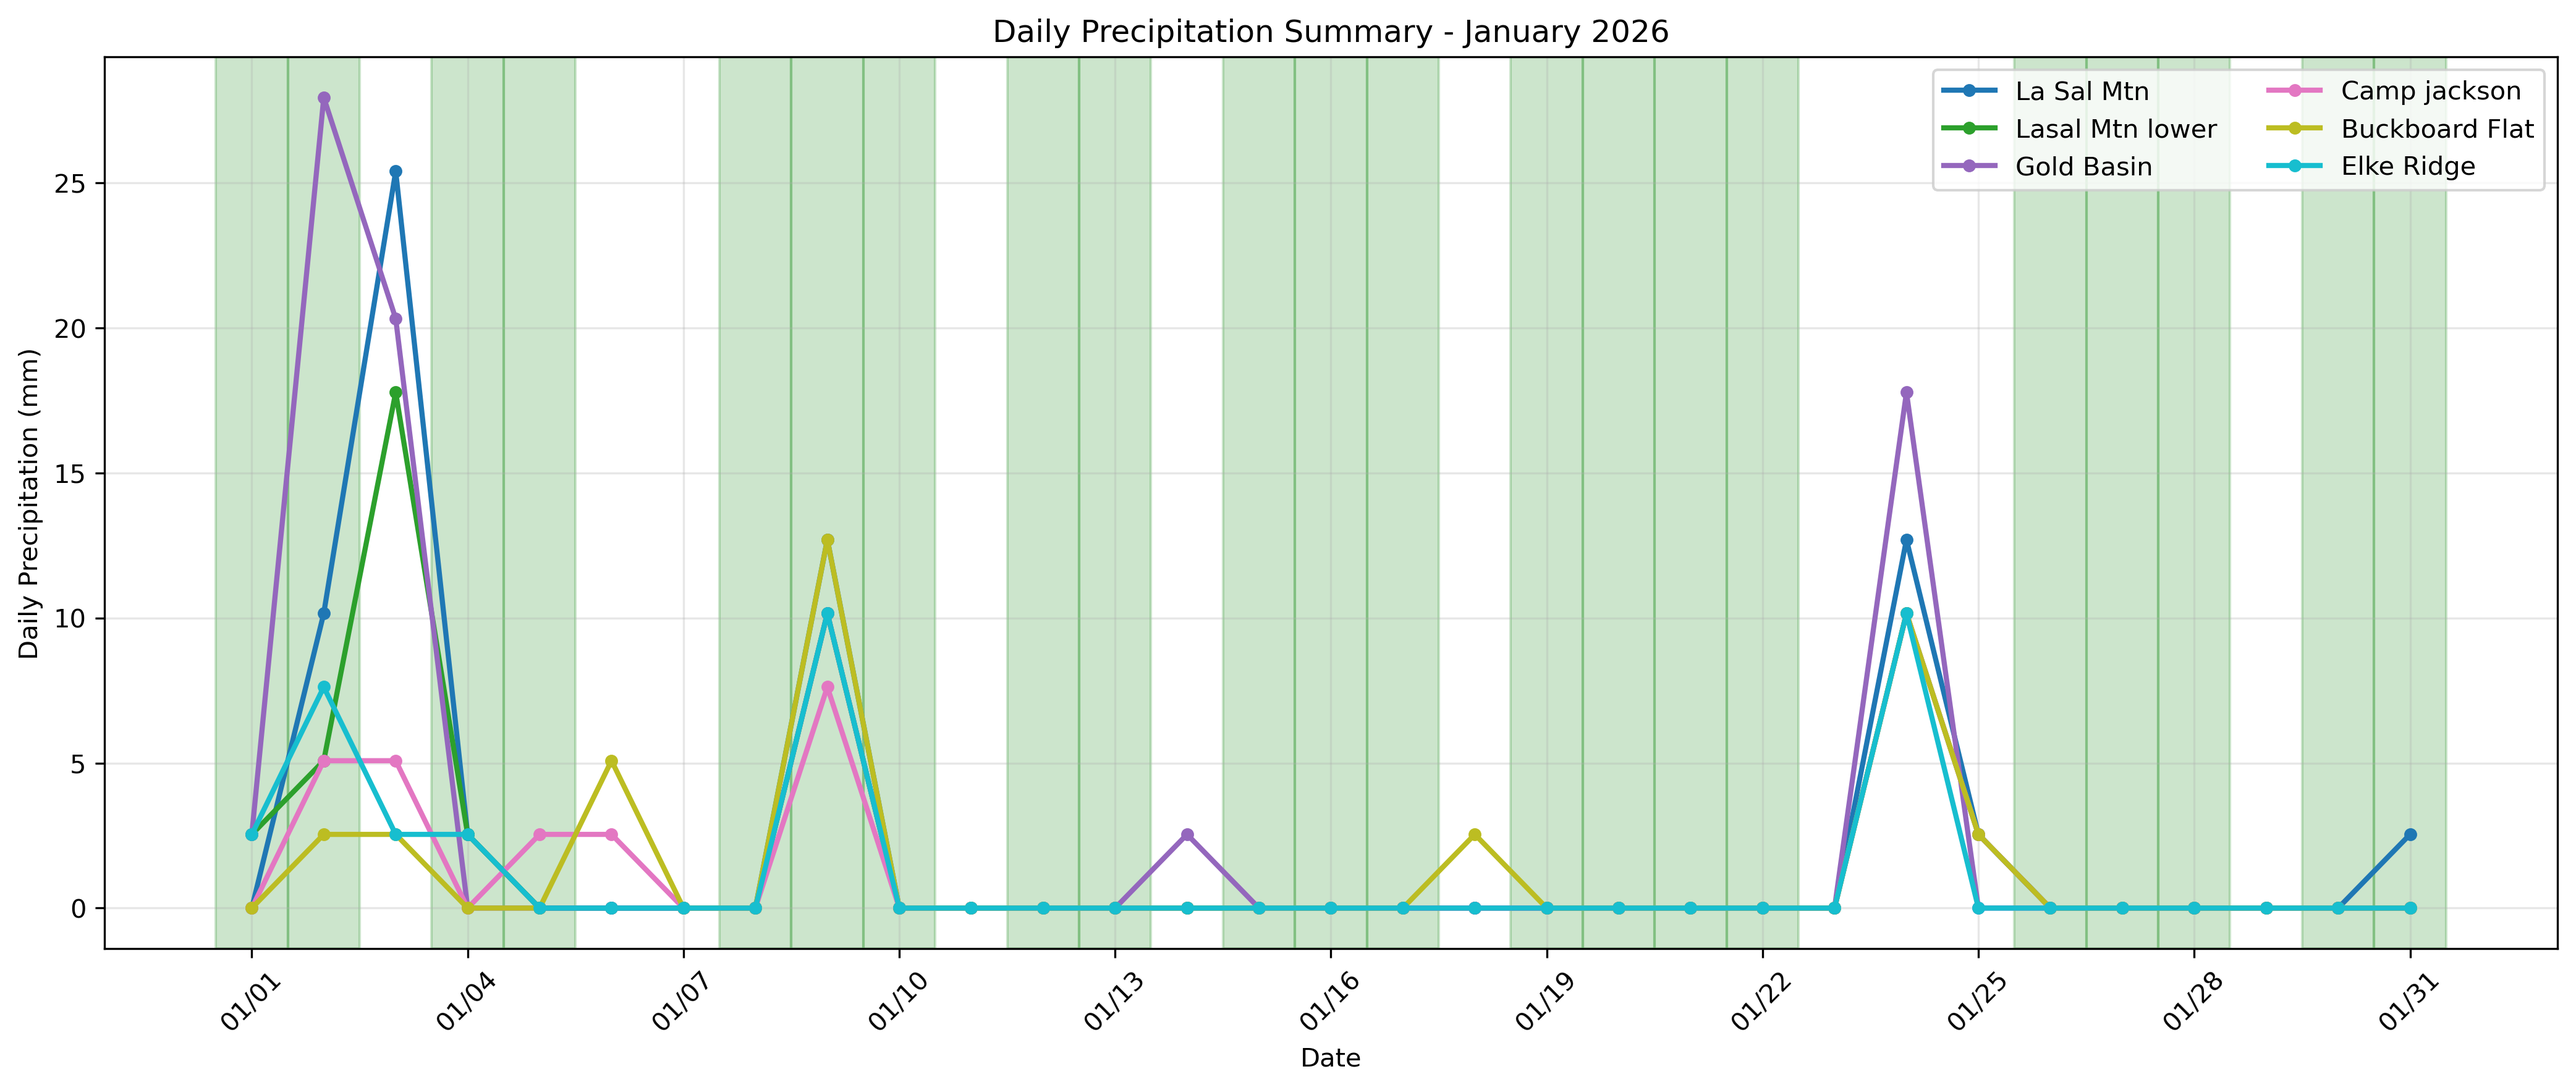
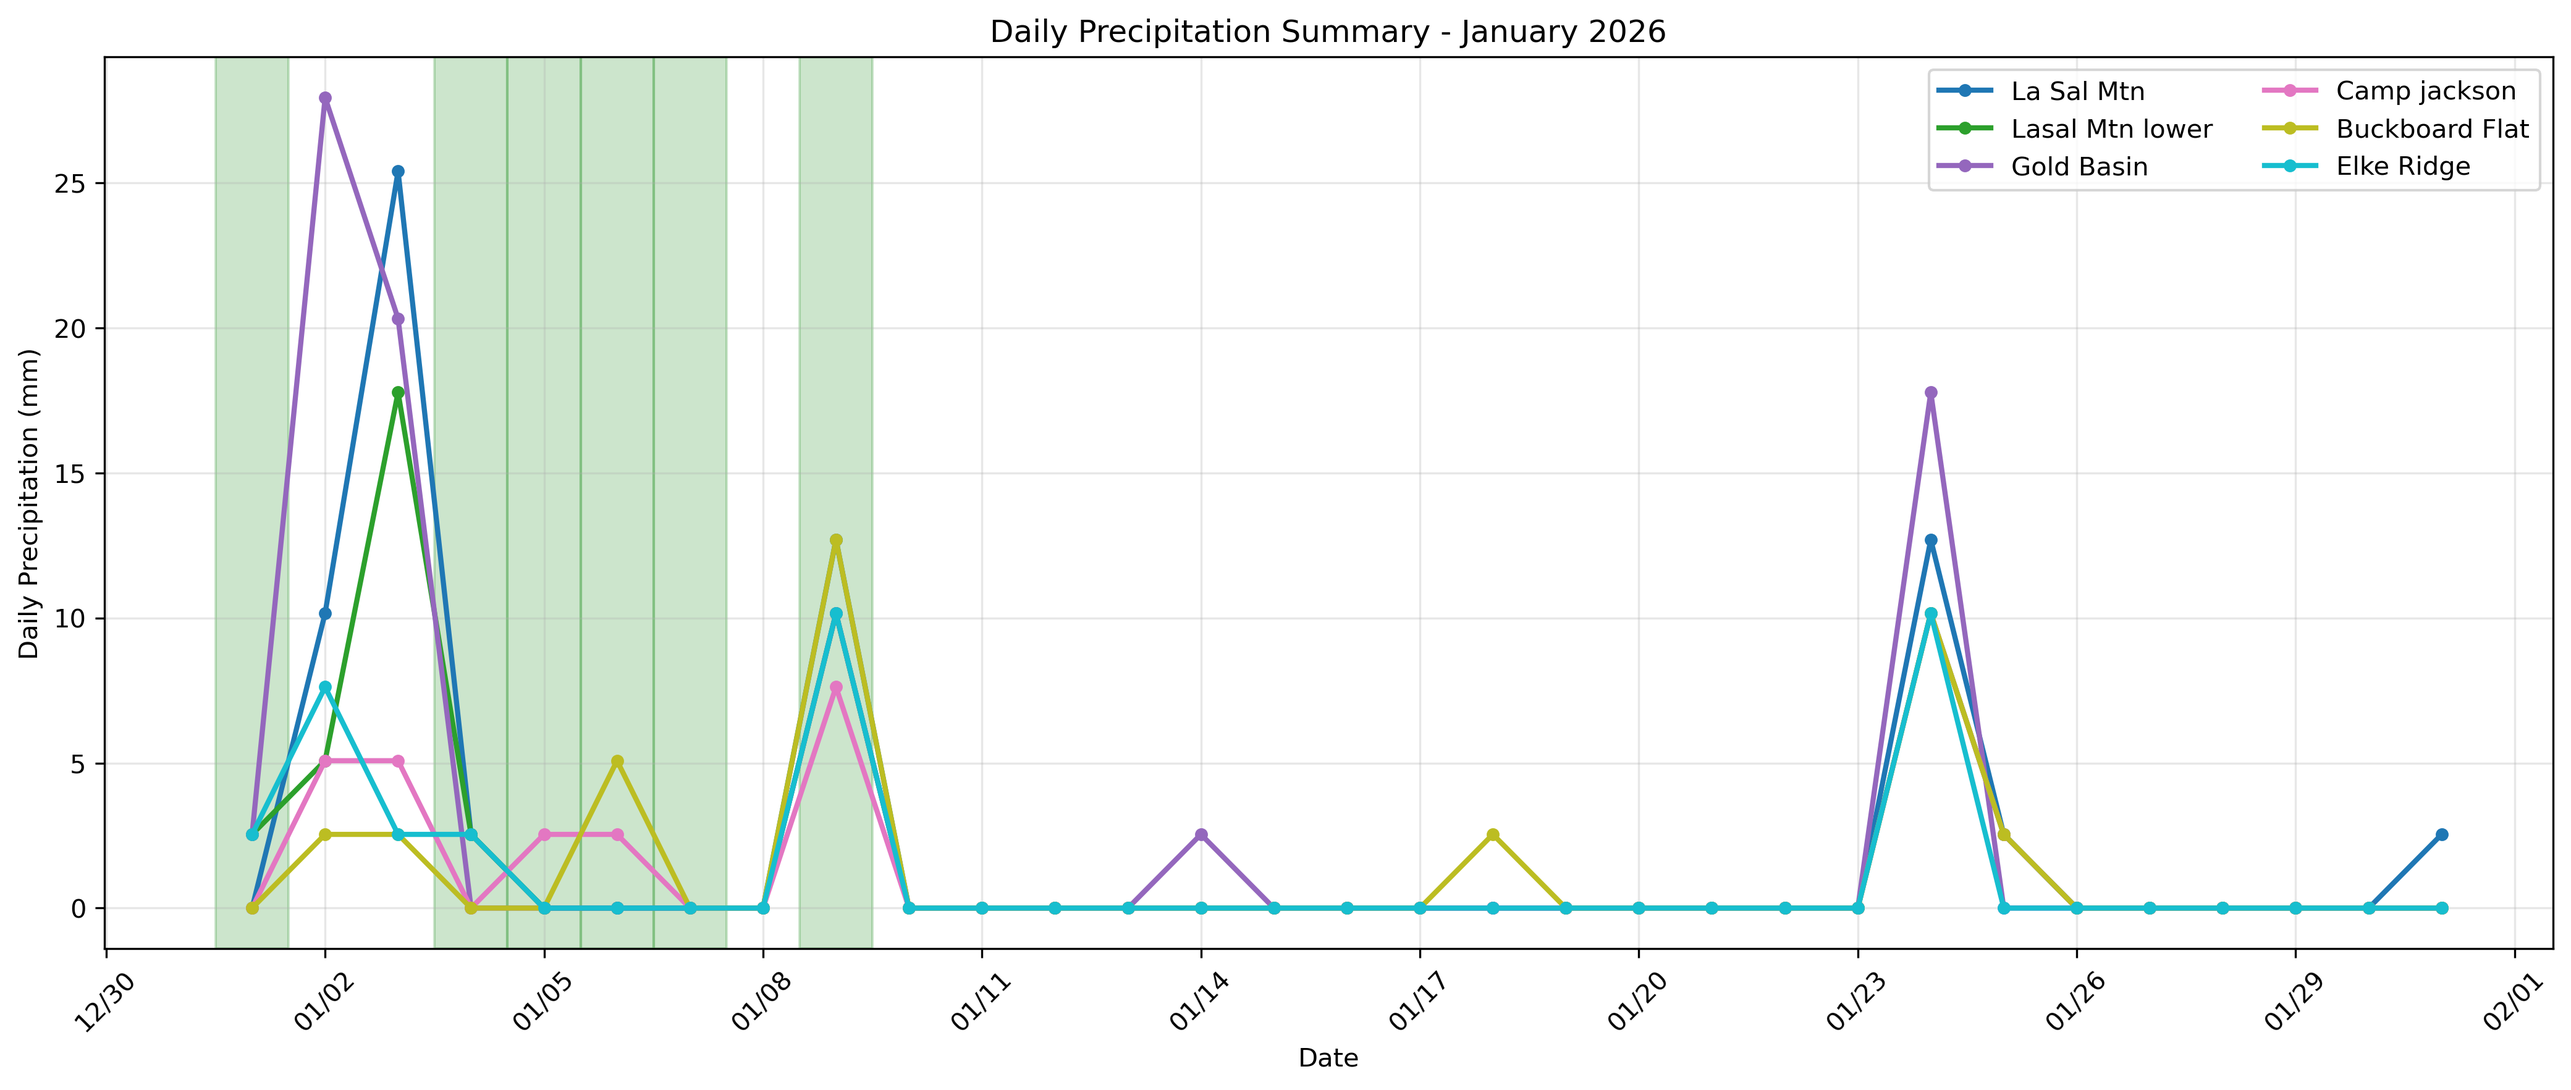
Fix precipitation plot highlighting to match WETA operations table exactly

diff --git a/scripts/plot_generators.py b/scripts/plot_generators.py
@@ -185,13 +185,22 @@ def plot_precipitation_summary(stations_data, operations_df, month, year, output
         # Only dates explicitly in the operations table should be highlighted
         if not month_ops.empty and pd.api.types.is_datetime64_any_dtype(month_ops['Date']):
             # Get unique dates where Operating is True
-            operating_dates = month_ops[month_ops['Operating'] == True]['Date'].dt.date.unique()
-            
-            for date in dates:
-                # Only highlight if date is explicitly in the operations table and Operating is True
-                if date.date() in operating_dates:
-                    ax.axvspan(date - timedelta(hours=12), date + timedelta(hours=12),
-                              color='green', alpha=0.2, zorder=0)
+            # Filter out any NaN dates first
+            month_ops_clean = month_ops[month_ops['Date'].notna()].copy()
+            if not month_ops_clean.empty:
+                operating_dates = set(month_ops_clean[month_ops_clean['Operating'] == True]['Date'].dt.date.unique())
+                
+                print(f"   Highlighting {len(operating_dates)} dates: {sorted(operating_dates)}")
+                
+                for date in dates:
+                    # Only highlight if date is explicitly in the operations table and Operating is True
+                    if date.date() in operating_dates:
+                        ax.axvspan(date - timedelta(hours=12), date + timedelta(hours=12),
+                                  color='green', alpha=0.2, zorder=0)
+            else:
+                print("   Warning: No valid operating dates found in operations data")
+        else:
+            print("   Warning: Operations data is empty or Date column is not datetime")
     
     # Plot precipitation for each station
     colors = plt.cm.tab10(np.linspace(0, 1, len(stations_data)))
